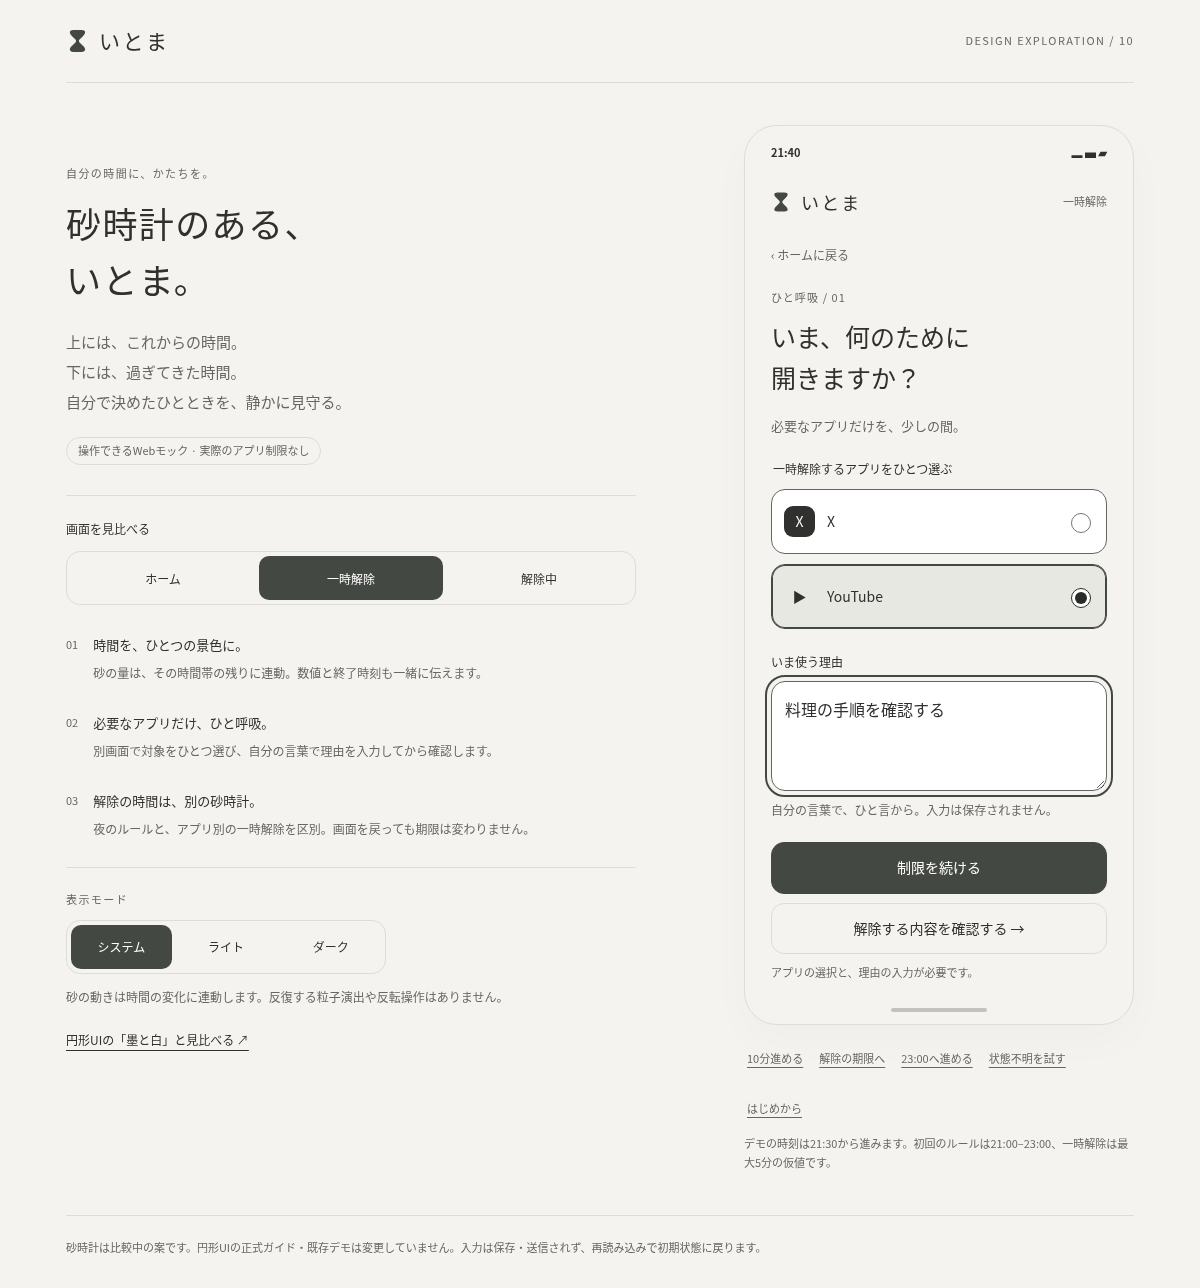
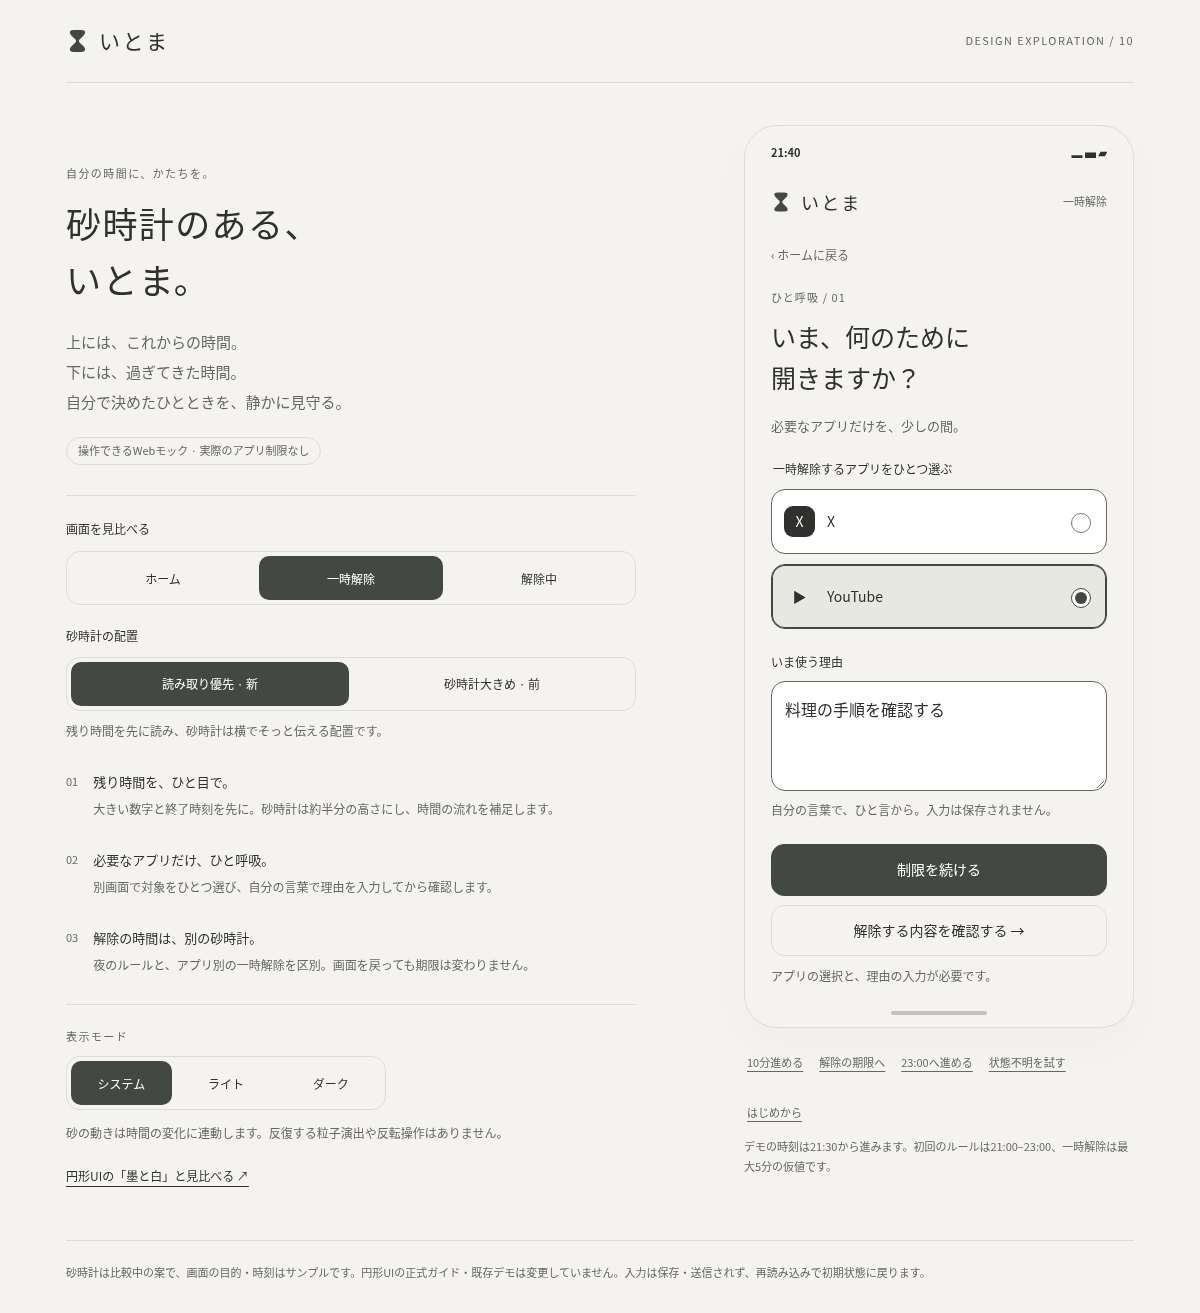
Prioritize remaining time in a compact hourglass layout

diff --git a/public/hourglass.css b/public/hourglass.css
@@ -46,7 +46,9 @@ h1 { font-size:35px; line-height:1.6; font-weight:500; letter-spacing:.04em; mar
 .period-header { display:flex; align-items:center; justify-content:space-between; gap:10px; }
 .period-header h2 { font-size:15px; margin:0; }
 .pill { color:var(--muted); background:var(--soft); border-radius:7px; padding:3px 8px; font-size:11px; }
-.glass-panel { margin:14px 0 18px; text-align:center; }
+.glass-panel { margin:14px 0 18px; text-align:center; display:flex; flex-direction:column; }
+.time-summary { order:2; }
+.glass-meta { order:1; }
 .glass-figure { width:186px; height:230px; margin:auto; }
 .glass-figure svg { width:100%; height:100%; }
 .glass-body { fill:var(--surface); stroke:var(--muted); stroke-width:1.2; stroke-opacity:.45; }
@@ -60,6 +62,7 @@ h1 { font-size:35px; line-height:1.6; font-weight:500; letter-spacing:.04em; mar
 .intention svg { width:18px; height:23px; color:var(--motif); flex:none; margin-top:3px; }
 .intention p { font-size:16px; line-height:1.9; }
 .intention-label { font-size:10px; color:var(--muted); margin-top:6px; }
+.intention-heading,.targets-heading { display:none; }
 .app-list { margin-top:20px; background:var(--surface); border:1px solid var(--line); border-radius:16px; padding:2px 14px; }
 .app-row { display:flex; align-items:center; gap:10px; min-height:58px; padding:10px 0; }
 .app-row+.app-row { border-top:1px solid var(--line); }
@@ -98,11 +101,34 @@ dl { margin:0; } dt { font-size:11px; color:var(--muted); } dd { margin:3px 0 15
 .simulation { display:flex; gap:6px 10px; flex-wrap:wrap; padding-top:12px; }
 .simulation button { background:transparent; border:0; color:var(--muted); font-size:11px; padding:0 3px; text-decoration:underline; text-underline-offset:4px; }
 .simulation-note { margin-top:3px; font-size:11px; }
+.layout-tools { margin-top:20px; }
+.layout-tools h2 { font-size:12px; font-weight:500; margin-bottom:10px; }
+.layout-tools>.caption { margin-top:9px; }
+.reading-layout .screen[data-view=home],.reading-layout .screen[data-view=active] { min-height:548px; }
+.reading-layout .period-header h2 { font-size:17px; font-weight:500; }
+.reading-layout .glass-panel { flex-direction:row; gap:16px; align-items:center; text-align:left; margin:24px 0; }
+.reading-layout .time-summary { flex:1; min-width:0; order:0; }
+.reading-layout .glass-figure { order:1; width:100px; height:132px; margin:0; flex:none; }
+.reading-layout .glass-meta { display:none; }
+.reading-layout .time-label { margin:0 0 7px; font-size:12px; }
+.reading-layout .time-value { font-size:32px; line-height:1.5; white-space:nowrap; }
+.reading-layout .time-end { font-size:13px; margin-top:6px; }
+.reading-layout .intention { padding:13px 14px; gap:10px; }
+.reading-layout .intention p { font-size:15px; line-height:1.8; }
+.reading-layout .intention br { display:none; }
+.reading-layout .intention-heading { display:block; color:var(--motif); font-size:11px; margin-bottom:3px; }
+.reading-layout .intention-label { display:none; }
+.reading-layout .targets-heading { display:block; font-size:12px; font-weight:500; color:var(--muted); margin:23px 0 8px; }
+.reading-layout .targets-heading+.app-list { margin-top:0; }
+.reading-layout .app-row { min-height:56px; }
+.reading-layout .actions { padding-top:24px; }
+.reading-layout .actions .caption { font-size:12px; }
 footer { padding:22px 0 30px; border-top:1px solid var(--line); font-size:11px; color:var(--muted); }
 dialog { color:var(--text); background:var(--surface); border:1px solid var(--line); padding:23px; border-radius:22px; width:calc(100% - 36px); max-width:330px; }
 dialog::backdrop { background:#10110f66; } dialog h2 { font-size:19px; font-weight:500; margin-bottom:9px; } dialog p { color:var(--muted); font-size:13px; margin-bottom:20px; } dialog button+button { margin-top:9px; }
 @media(max-width:860px) { .study { gap:40px; grid-template-columns:minmax(0,1fr) 360px; } .workspace { padding-inline:24px; } h1 { font-size:30px; } }
 @media(max-width:680px) { .workspace { padding-inline:18px; } .study { display:flex; flex-direction:column; gap:26px; padding-top:25px; } .study-notes { padding-top:0; width:100%; } h1 { font-size:27px; margin-bottom:12px; } .lead { font-size:13px; } .study-detail { display:none; } .preview-tools { margin-top:20px; padding-top:16px; } .appearance { margin-top:18px; padding-top:16px; } .preview { width:100%; max-width:390px; align-self:center; } .page-header>.eyebrow { font-size:9px; } .screen { padding-inline:23px; } }
+@media(max-width:380px) { .reading-layout .glass-figure { width:74px; height:105px; } .reading-layout .glass-panel { gap:10px; } .reading-layout .time-value { font-size:28px; } }
 @media(prefers-color-scheme:dark) { :root { color-scheme:dark; --bg:#1B1C1A; --surface:#292B27; --text:#F0F0E9; --muted:#BDBFB6; --line:#4D5048; --accent:#CDD2C4; --soft:#3A3E35; --on:#23271F; --purpose:#37362F; --motif:#CEC8B8; } }
 body[data-theme=light] { color-scheme:light; --bg:#F4F3F0; --surface:#FFFFFF; --text:#30312F; --muted:#666762; --line:#DDDDD6; --accent:#444842; --soft:#E7E8E1; --on:#FFFFFF; --purpose:#E7E2D9; --motif:#656052; }
 body[data-theme=dark] { color-scheme:dark; --bg:#1B1C1A; --surface:#292B27; --text:#F0F0E9; --muted:#BDBFB6; --line:#4D5048; --accent:#CDD2C4; --soft:#3A3E35; --on:#23271F; --purpose:#37362F; --motif:#CEC8B8; }

diff --git a/public/hourglass.html b/public/hourglass.html
@@ -5,7 +5,7 @@
   <title>いとま — 砂時計のある時間</title>
   <link rel="stylesheet" href="hourglass.css">
 </head>
-<body>
+<body class="reading-layout">
   <svg class="svg-library" xmlns="http://www.w3.org/2000/svg" aria-hidden="true"><defs><symbol id="brand-mark" viewBox="0 0 40 44"><path d="M13 3H27C35 3 35 9 29 14L24 19C22 21 22 23 24 25L29 30C35 35 35 41 27 41H13C5 41 5 35 11 30L16 25C18 23 18 21 16 19L11 14C5 9 5 3 13 3Z" fill="currentColor"/></symbol></defs></svg>
   <div class="workspace">
     <header class="page-header"><a class="wordmark" href="hourglass.html" aria-label="砂時計デモをはじめから開く"><svg aria-hidden="true"><use href="#brand-mark"/></svg><span>いとま</span></a><span class="eyebrow">DESIGN EXPLORATION / 10</span></header>
@@ -16,7 +16,8 @@
         <p class="lead">上には、これからの時間。<br>下には、過ぎてきた時間。<br>自分で決めたひとときを、静かに見守る。</p>
         <span class="demo-badge">操作できるWebモック · 実際のアプリ制限なし</span>
         <section class="preview-tools" aria-label="画面モックの切り替え"><h2>画面を見比べる</h2><div class="segmented"><button data-scene="home" aria-pressed="true">ホーム</button><button data-scene="select" aria-pressed="false">一時解除</button><button data-scene="active" aria-pressed="false">解除中</button></div></section>
-        <section class="study-detail"><span>01</span><div><h2>時間を、ひとつの景色に。</h2><p>砂の量は、その時間帯の残りに連動。数値と終了時刻も一緒に伝えます。</p></div></section>
+        <section class="layout-tools" aria-label="砂時計の配置を比較"><h2>砂時計の配置</h2><div class="segmented"><button data-layout="reading" aria-pressed="true">読み取り優先 · 新</button><button data-layout="large" aria-pressed="false">砂時計大きめ · 前</button></div><p class="caption">残り時間を先に読み、砂時計は横でそっと伝える配置です。</p></section>
+        <section class="study-detail"><span>01</span><div><h2>残り時間を、ひと目で。</h2><p>大きい数字と終了時刻を先に。砂時計は約半分の高さにし、時間の流れを補足します。</p></div></section>
         <section class="study-detail"><span>02</span><div><h2>必要なアプリだけ、ひと呼吸。</h2><p>別画面で対象をひとつ選び、自分の言葉で理由を入力してから確認します。</p></div></section>
         <section class="study-detail"><span>03</span><div><h2>解除の時間は、別の砂時計。</h2><p>夜のルールと、アプリ別の一時解除を区別。画面を戻っても期限は変わりません。</p></div></section>
         <div class="appearance"><span class="eyebrow">表示モード</span><div class="segmented"><button data-appearance="system" aria-pressed="true">システム</button><button data-appearance="light" aria-pressed="false">ライト</button><button data-appearance="dark" aria-pressed="false">ダーク</button></div></div>
@@ -33,7 +34,7 @@
         <p class="caption simulation-note">デモの時刻は21:30から進みます。初回のルールは21:00–23:00、一時解除は最大5分の仮値です。</p>
       </section>
     </main>
-    <footer>砂時計は比較中の案です。円形UIの正式ガイド・既存デモは変更していません。入力は保存・送信されず、再読み込みで初期状態に戻ります。</footer>
+    <footer>砂時計は比較中の案で、画面の目的・時刻はサンプルです。円形UIの正式ガイド・既存デモは変更していません。入力は保存・送信されず、再読み込みで初期状態に戻ります。</footer>
   </div>
   <dialog id="discard" aria-labelledby="discard-title" aria-describedby="discard-help"><h2 id="discard-title">入力内容を破棄しますか？</h2><p id="discard-help">選んだアプリと理由が破棄されます。制限の設定は変わりません。</p><button class="primary" data-action="keep">入力を続ける</button><button class="secondary" data-action="discard">破棄して戻る</button></dialog>
   <script type="module" src="hourglass.mjs"></script>

diff --git a/docs/hourglass-study.md b/docs/hourglass-study.md
@@ -9,6 +9,7 @@
 - ブランチURLに `hourglass.html` を付ける（`npm run demo:info` でURL確認）。
 - ローカル: `python3 -m http.server 8769 --directory public` → `http://localhost:8769/hourglass.html`。
 - ページ外側の「ホーム」「一時解除」「解除中」でモックを切り替える。「解除中」はサンプル理由によるXの仮解除を用意するデモ操作であり、製品の解除入口ではない。
+- 初期表示は「読み取り優先」の配置。外側のスイッチで「砂時計大きめ」の前案へも切り替えられる。切替はCSSの配置だけを変え、入力・選択・期限を初期化しない。
 - 「10分進める」「解除の期限へ」「23:00へ進める」「状態不明を試す」はデモの時計/状態だけを変更する。時計は21:30から進む。
 - 円形UIの「墨と白」の既存デモへの比較リンクは別タブで開く。既存デモ・共有インフラ・workflowは変更しない。
 
@@ -26,6 +27,15 @@
 残りが少ないときに赤くする、砂時計を振る/反転する、追加待機、回数制限、課金、音、反復粒子の演出は足さない。「失った時間」「取り戻した時間」「集中達成率」とは表示しない。
 
 ## 視覚・動きの契約
+
+### 読み取りと余白を優先した配置
+
+- 残り時間・終了時刻を左、柔らかい砂時計を右に並べる。数字を先に読むDOM順とし、砂時計は時間の流れを補助する役割とする。
+- 砂時計は通常100×132px、狭い画面では74×105px。前案の186×230pxより小さくし、上下の意味の説明は画面外のデモ解説へ移す。数値・終了時刻・図の読み上げラベルは維持する。
+- 目的の引用は強制改行をやめ、短い一文と「大切にしたいこと」のラベルにする。目的がサンプルであることはデモ外枠にも明記する。引用ラベルはpurposeMotif色を使い、warm面での文字コントラストを維持する。
+- 「対象アプリ」の見出しで操作に必要な情報を区切る。ボタンは50px以上、キャンセル等の操作領域も維持し、文字を全体的に縮小して押し込まない。
+- 390×844pxのWebプレビューで端末枠は約749px。「一時解除する」まで収まり、前案より端末枠が100px以上短くなることをブラウザで確認。実機やDynamic Typeでの合格ではない。
+- ホームと一時解除中の両方に適用。入力・確認・状態不明の契約や解除条件は変えない。通常の製品UIには配置の比較スイッチを追加しない。
 
 - 基本色は採用された05「墨と白」のLight/Dark。文字・操作・引用面は [UIガイドライン](ui-guidelines.md) §6.1/6.4と同じ値。
 - UI用の砂時計SVGは候補10に着想を得たモック用の再作図。柔らかさの調整では直線的な三角形と上下の硬い横棒を外し、器・砂・ブランドマークの肩とくびれを曲線にした。輪郭と砂の流れの線も淡くした。最終のアイコン/ロゴアセットへの採用や置き換えではない。
@@ -50,8 +60,9 @@
 - `tests/demo-hourglass.test.mjs`: 砂の量と面積保存、0〜1の境界/不正値、絶対期限からの残り計算、表示の丸めと期限終了を検証。
 - Chromium / Playwright: 砂/時刻の更新、空欄/単一対象/自由入力/内容確認/戻る、破棄確認、HTMLエスケープ、YouTube解除後にXを追加、Xだけ早期終了してYouTubeを維持、自然な期限到達（時計を進めて確認）、状態不明/再確認、23:00終了。
 - 320/390/768/1200pxでホームと入力画面の横方向のはみ出しなし。Dark/Reduce Motion、ブラウザ例外なし。
+- 新旧配置の高さの差、390×844での端末枠と主要ボタンの収まり、配置切替時の時刻/理由の維持も確認。
 - 型チェック、lint、Jest既存2件、demoテスト（砂時計の4条件を含む）、expo-doctor 20/20、Webデモビルドを確認。
 
-画像: [ホーム](screenshots/hourglass/home.png)、[選択・理由](screenshots/hourglass/reason.png)、[内容確認](screenshots/hourglass/review.png)、[解除中](screenshots/hourglass/active.png)、[状態不明](screenshots/hourglass/unknown.png)、[390px](screenshots/hourglass/mobile.png)、[Dark/Reduce Motion](screenshots/hourglass/dark-reduced.png)。
+画像: [ホーム](screenshots/hourglass/home.png)、[砂時計大きめの前案](screenshots/hourglass/large-layout.png)、[選択・理由](screenshots/hourglass/reason.png)、[内容確認](screenshots/hourglass/review.png)、[解除中](screenshots/hourglass/active.png)、[状態不明](screenshots/hourglass/unknown.png)、[390px](screenshots/hourglass/mobile.png)、[Dark/Reduce Motion](screenshots/hourglass/dark-reduced.png)。
 
 iOS Simulator・iPhone実機・VoiceOver・Dynamic Type・ネイティブのキーボード/触覚・Screen Timeは未検証。新しい砂時計UI・正式アイコンの採用、本体テーマの移行、Swift/Extension/保存の変更は行わない。実課金・バックエンドは追加しない。
